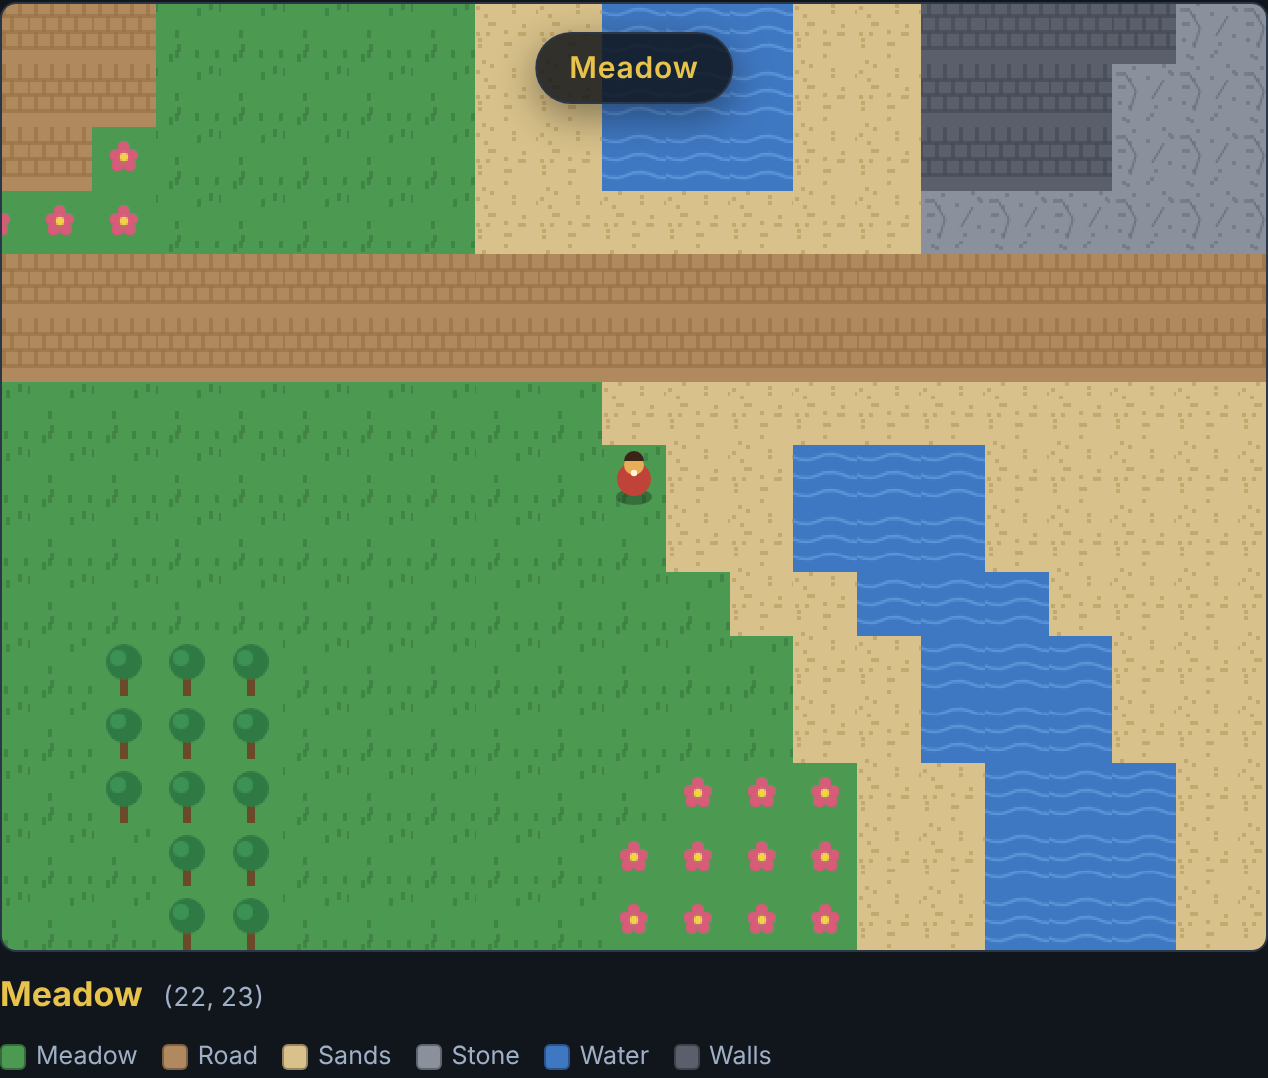
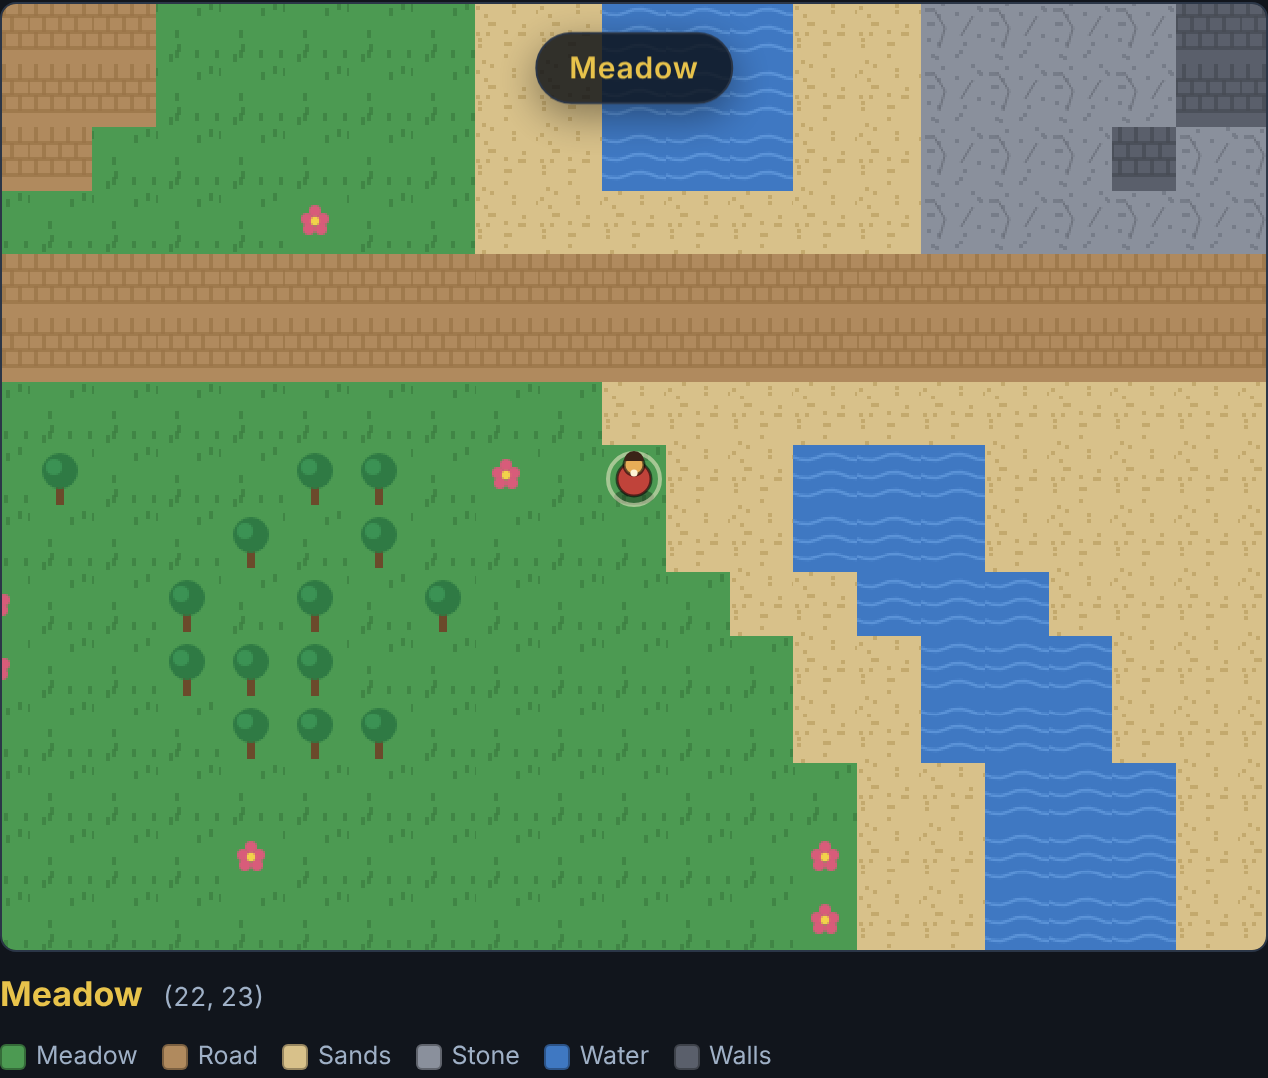
overworld-express: fix cycle 1 — truthful import README, refuse no-walkable maps, O(cells) spawn (no spiral hang), d-pad tap-to-step + slide-off safety, player locator ring, organic forest/flower scatter; harness 41→46 (#86)

diff --git a/index.html b/index.html
@@ -243,12 +243,17 @@
     }
     // 1. base terrain
     for (var y = 0; y < H; y++) { var row = []; for (var x = 0; x < W; x++) row.push(base(x, y)); t.push(row); }
-    // 2. a forest in the west meadow + highland peaks in the east stone
+    // 2. a forest in the west meadow + highland peaks in the east stone.
+    // A low-frequency field shapes the regions; a per-cell hash scatters the
+    // placement so trees and blooms don't land on a visible grid.
+    function hash(x, y) { var n = (x * 374761393 + y * 668265263) >>> 0; n = ((n ^ (n >>> 13)) * 1274126177) >>> 0; return (n >>> 0) / 4294967296; }
     for (y = 0; y < H; y++) for (x = 0; x < W; x++) {
-      var v = Math.sin(x * 0.55 + 1.3) * Math.cos(y * 0.5 + 0.7) + Math.sin((x + y) * 0.33);
-      if (t[y][x] === GRASS && x < W * 0.30 && y > H * 0.52 && v > 0.65) t[y][x] = TREE;
-      if (t[y][x] === STONE && v > 1.05) t[y][x] = WALL;   // impassable peak
-      if (t[y][x] === GRASS && v < -1.2) t[y][x] = FLOWER; // sparse blooms
+      var j = hash(x, y);
+      if (t[y][x] === GRASS && x < W * 0.34 && y > H * 0.52 &&
+          Math.sin(x * 0.5) * Math.cos(y * 0.5) + (j - 0.5) * 1.5 > 0.5) t[y][x] = TREE;
+      if (t[y][x] === STONE &&
+          Math.sin(x * 0.6 + 1) * Math.sin(y * 0.5) + (j - 0.5) * 1.3 > 0.5) t[y][x] = WALL; // peak
+      if (t[y][x] === GRASS && j > 0.91) t[y][x] = FLOWER; // scattered blooms
     }
     // 3. the road: a clear walkable band across every biome (bridges the river)
     for (x = 0; x < W; x++) { t[roadY][x] = PATH; t[roadY + 1][x] = PATH; }
@@ -293,17 +298,18 @@
       }
       out.push(row);
     }
+    if (!spawnOf({ width: w, height: h, tiles: out }))
+      throw new Error("no walkable ground"); // a map you could never stand on is refused
     return { map: { version: 1, width: w, height: h, palette: NAMES.slice(), tiles: out }, clamped: clamped };
   }
-  function spawnOf(map) { // nearest walkable tile to the map centre (spiral search)
-    var cx = map.width >> 1, cy = map.height >> 1;
-    for (var ring = 0; ring <= map.width + map.height; ring++)
-      for (var dy = -ring; dy <= ring; dy++) for (var dx = -ring; dx <= ring; dx++) {
-        if (Math.max(Math.abs(dx), Math.abs(dy)) !== ring) continue;
-        var x = cx + dx, y = cy + dy;
-        if (x >= 0 && y >= 0 && x < map.width && y < map.height && walkableIdx(map.tiles[y][x])) return { x: x, y: y };
-      }
-    return { x: 0, y: 0 }; // a map with no walkable tile at all
+  function spawnOf(map) { // walkable tile nearest the map centre; null if there are none
+    var cx = (map.width - 1) / 2, cy = (map.height - 1) / 2, best = null, bestD = Infinity;
+    for (var y = 0; y < map.height; y++) for (var x = 0; x < map.width; x++) {
+      if (!walkableIdx(map.tiles[y][x])) continue;
+      var d = Math.max(Math.abs(x - cx), Math.abs(y - cy)); // Chebyshev → a central spawn
+      if (d < bestD) { bestD = d; best = { x: x, y: y }; }
+    }
+    return best; // single pass, O(w·h): no spiral blow-up on a mostly-blocked map
   }
 
   // ---- state ----------------------------------------------------------
@@ -321,7 +327,7 @@
 
   function loadMap(m, announce) {
     map = m;
-    var s = spawnOf(m);
+    var s = spawnOf(m) || { x: 0, y: 0 }; // imported maps are guaranteed walkable by validate()
     player = { tx: s.x, ty: s.y, px: s.x * TILE + TILE / 2, py: s.y * TILE + TILE / 2,
                moving: false, fromX: 0, fromY: 0, toX: 0, toY: 0, t0: 0, face: "down" };
     lastBiome = "";
@@ -396,15 +402,19 @@
   function drawPlayer() {
     var x = player.px - cam.x, y = player.py - cam.y;
     // soft shadow
-    ctx.fillStyle = "rgba(0,0,0,.28)";
-    ctx.beginPath(); ctx.ellipse(x, y + 10, 9, 4, 0, 0, Math.PI * 2); ctx.fill();
-    // cloak + body
-    ctx.fillStyle = "#c0433a"; ctx.beginPath(); ctx.arc(x, y + 1, 8.5, 0, Math.PI * 2); ctx.fill();
-    ctx.fillStyle = "#e7ad57"; ctx.beginPath(); ctx.arc(x, y - 6, 5, 0, Math.PI * 2); ctx.fill(); // head
+    ctx.fillStyle = "rgba(0,0,0,.3)";
+    ctx.beginPath(); ctx.ellipse(x, y + 10, 10, 4, 0, 0, Math.PI * 2); ctx.fill();
+    // a faint "you are here" ring so the traveler reads against busy tiles
+    ctx.strokeStyle = "rgba(255,244,214,.5)"; ctx.lineWidth = 2;
+    ctx.beginPath(); ctx.arc(x, y + 1, 13, 0, Math.PI * 2); ctx.stroke();
+    // cloak + body, dark-outlined for contrast
+    ctx.strokeStyle = "rgba(0,0,0,.55)"; ctx.lineWidth = 1.5;
+    ctx.fillStyle = "#c0433a"; ctx.beginPath(); ctx.arc(x, y + 1, 8.5, 0, Math.PI * 2); ctx.fill(); ctx.stroke();
+    ctx.fillStyle = "#e7ad57"; ctx.beginPath(); ctx.arc(x, y - 6, 5, 0, Math.PI * 2); ctx.fill(); ctx.stroke(); // head
     ctx.fillStyle = "#3a2417"; ctx.beginPath(); ctx.arc(x, y - 8, 5, Math.PI, 0); ctx.fill();     // hair/hat
     // facing nub
     var f = DIRS[player.face]; ctx.fillStyle = "#fff4d6";
-    ctx.beginPath(); ctx.arc(x + f[0] * 5, y - 6 + f[1] * 4, 1.6, 0, Math.PI * 2); ctx.fill();
+    ctx.beginPath(); ctx.arc(x + f[0] * 5, y - 6 + f[1] * 4, 1.8, 0, Math.PI * 2); ctx.fill();
   }
 
   // ---- loop -----------------------------------------------------------
@@ -437,14 +447,17 @@
   addEventListener("blur", function () { held.up = held.down = held.left = held.right = false; });
 
   // touch d-pad
+  function clearHeld() { held.up = held.down = held.left = held.right = false; }
   Array.prototype.forEach.call(document.querySelectorAll(".dpad button"), function (b) {
     var dir = b.getAttribute("data-dir");
-    function on(e) { held[dir] = true; e.preventDefault(); }
+    function on(e) { held[dir] = true; if (player && !player.moving) beginStep(dir); e.preventDefault(); } // a quick tap steps once
     function off(e) { held[dir] = false; e.preventDefault(); }
     b.addEventListener("touchstart", on, { passive: false });
     b.addEventListener("touchend", off); b.addEventListener("touchcancel", off);
     b.addEventListener("mousedown", on); b.addEventListener("mouseup", off); b.addEventListener("mouseleave", off);
   });
+  // a finger that slides off a held d-pad button never fires that button's touchend
+  addEventListener("touchend", clearHeld); addEventListener("touchcancel", clearHeld);
 
   // ---- map loading UI -------------------------------------------------
   function setStatus(msg, kind) { statusEl.textContent = msg || ""; statusEl.className = "status" + (kind ? " " + kind : ""); }

diff --git a/README.md b/README.md
@@ -1,6 +1,6 @@
 # overworld-express
 
-Walk a top-down overworld larger than the screen: a camera follows you, terrain blocks your way, and the land is laid out in biomes, so crossing from meadow to dunes to a stone pass is announced as you go.
+Walk a top-down overworld larger than the screen: a camera follows you, terrain blocks your way, and the land is laid out in biomes, so crossing from meadow to open sands to a stone pass is announced as you go.
 
 ![screenshot](screenshot.png)
 
@@ -8,9 +8,9 @@ Walk a top-down overworld larger than the screen: a camera follows you, terrain 
 
 ## What it does
 
-Move a traveler around a tiled overworld with the arrow keys, WASD, or the on-screen D-pad. The map is bigger than the viewport, so a camera follows you and stops at the edges — you never see past the world. Water, trees, and walls block you; grass, sand, stone, paths, and flowers let you through. The world is drawn as distinct biomes, and a readout tracks the biome you are standing in and your tile coordinates; a banner announces each crossing into new country.
+Move a traveler around a tiled overworld with the arrow keys, WASD, or the on-screen D-pad. The map is bigger than the viewport, so a camera follows you and stops at the edges — you never see past the world. Water, trees, and walls block you; grass, sand, stone, paths, flowers, and doorways let you through. The world is drawn as distinct biomes, and a readout tracks the biome you are standing in and your tile coordinates; a banner announces each crossing into new country. Doors and huts are walkable scenery — nothing opens or warps in this version.
 
-It reads **tile-forge** maps. Load the bundled example, pick a `.json` file that tile-forge exported, or paste one in — the traveler respawns on open ground in the new map. A malformed or out-of-range map is refused with a message and leaves the current world untouched.
+It reads **tile-forge** maps. Load the bundled example, pick a `.json` file that tile-forge exported, or paste one in — the traveler respawns on open ground in the new map. Unknown tile values are cleared (it tells you how many) and the map still loads; a map that is not valid JSON, has the wrong shape, or has no walkable ground at all is refused with a message and leaves the current world untouched.
 
 Every tile is drawn from code at load. No image files, no fonts, no network.
 
